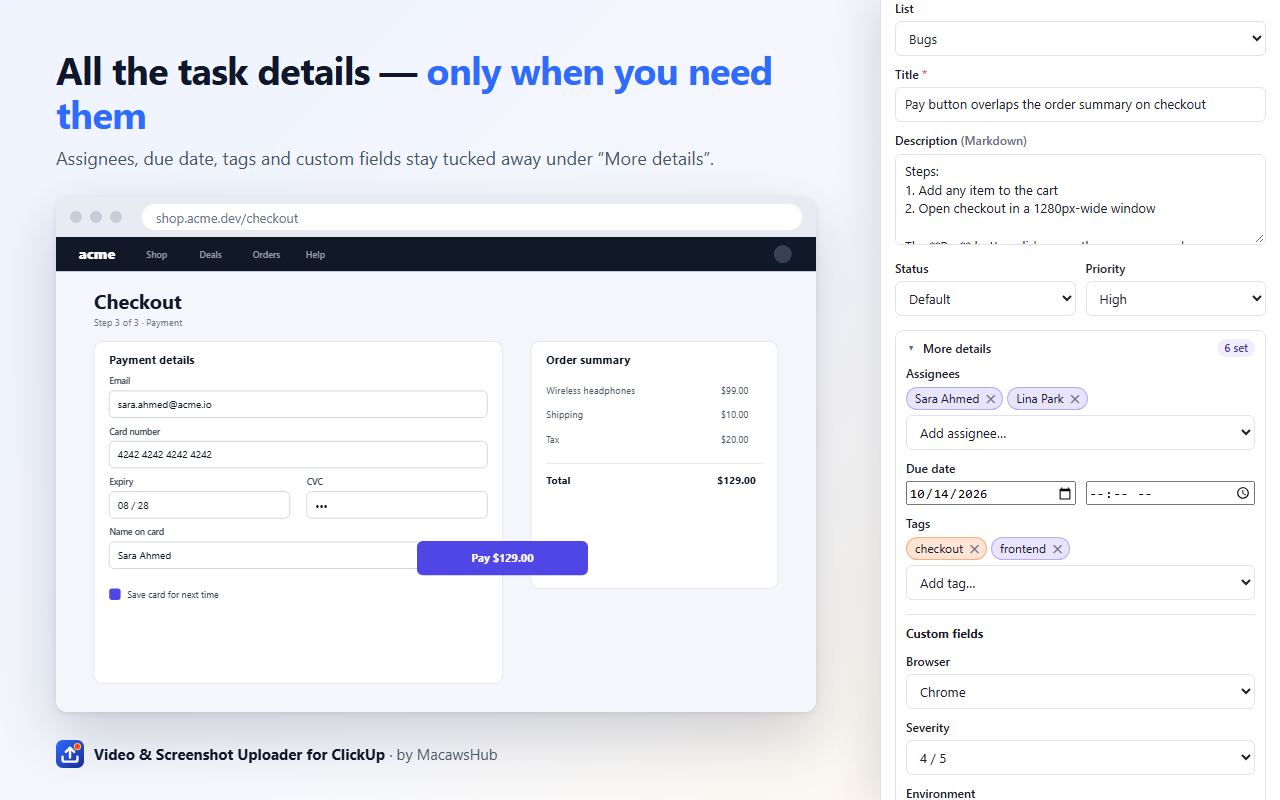
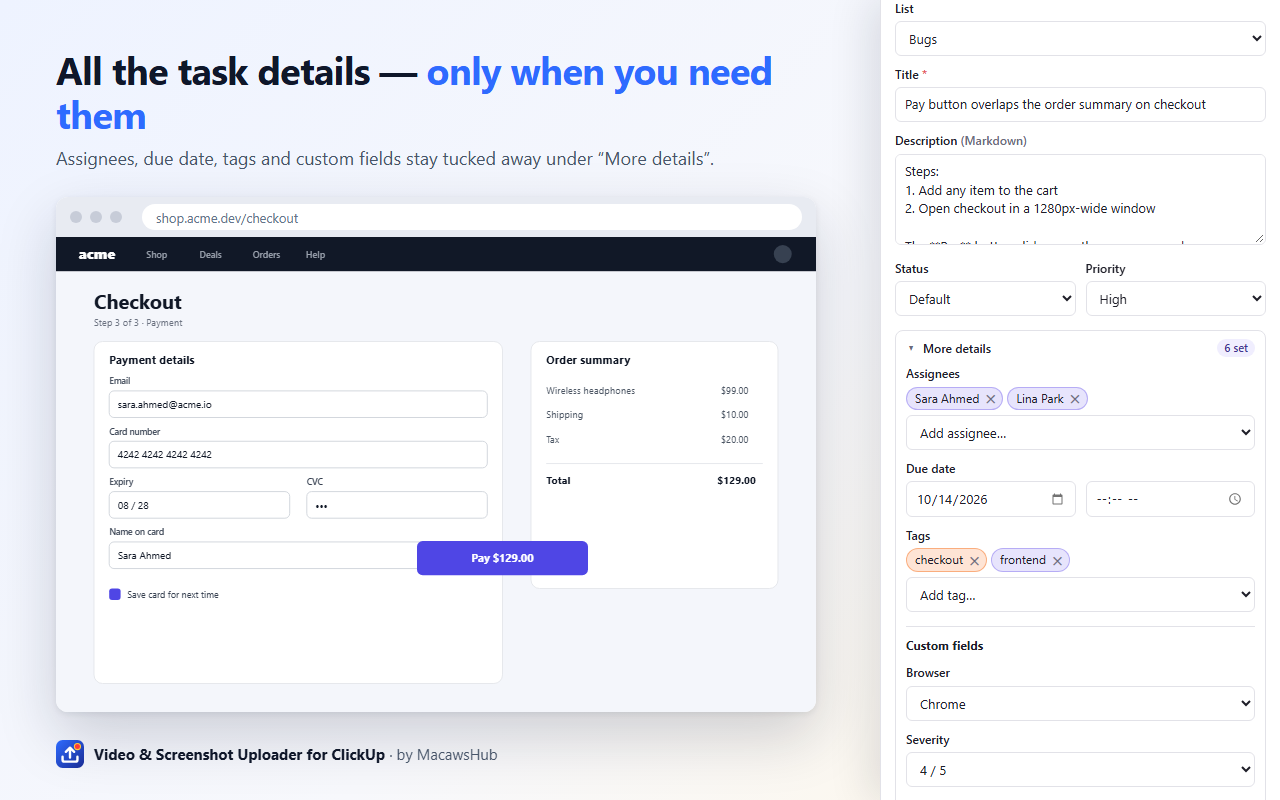
Style date, time and other typed inputs like the rest of the form
The shared field style only covered text/password inputs, so the due
date/time pickers (and email, URL, phone, number and date custom fields)
used Chrome's default look. Apply it to every text-like input type, keep
it low-specificity with :where(), and mute the picker icons.

Changed region(s): [[0.6875, 0.5938, 0.875, 0.75], [0.6875, 0.7812, 0.7812, 1.0], [0.9375, 0.625, 0.9688, 0.6562]]

diff --git a/sidepanel/sidepanel.css b/sidepanel/sidepanel.css
@@ -90,8 +90,8 @@ label {
   margin: 10px 0 4px;
 }
 
-input[type="text"],
-input[type="password"],
+/* Every text-like input (incl. date, time, email, url, tel, number used by "More details"). */
+input:where(:not([type="checkbox"], [type="radio"], [type="file"], [type="range"], [type="color"])),
 select,
 textarea {
   width: 100%;
@@ -103,6 +103,23 @@ textarea {
   font: inherit;
 }
 textarea { resize: vertical; }
+
+/* Date/time: same height as the other fields, muted picker icon. */
+input[type="date"],
+input[type="time"] {
+  min-height: 34px;
+  line-height: 1.2;
+}
+input[type="date"]::-webkit-calendar-picker-indicator,
+input[type="time"]::-webkit-calendar-picker-indicator {
+  cursor: pointer;
+  opacity: 0.55;
+}
+input[type="date"]::-webkit-calendar-picker-indicator:hover,
+input[type="time"]::-webkit-calendar-picker-indicator:hover {
+  opacity: 0.9;
+}
+.row > input { min-width: 0; }
 input:focus, select:focus, textarea:focus {
   outline: 2px solid var(--accent);
   outline-offset: -1px;

diff --git a/store/src/demo-stub.js b/store/src/demo-stub.js
@@ -86,6 +86,9 @@
       fields: [
         { id: 'f-browser', name: 'Browser', type: 'drop_down', type_config: { options: [{ id: 'o1', name: 'Chrome' }, { id: 'o2', name: 'Edge' }, { id: 'o3', name: 'Safari' }] } },
         { id: 'f-sev', name: 'Severity', type: 'emoji', type_config: { count: 5 } },
+        { id: 'f-email', name: 'Customer email', type: 'email' },
+        { id: 'f-amount', name: 'Order total', type: 'currency' },
+        { id: 'f-found', name: 'Found on', type: 'date' },
         { id: 'f-env', name: 'Environment', type: 'labels', type_config: { options: [{ id: 'l1', label: 'Production', color: '#e5484d' }, { id: 'l2', label: 'Staging', color: '#0090ff' }] } },
       ],
     },
